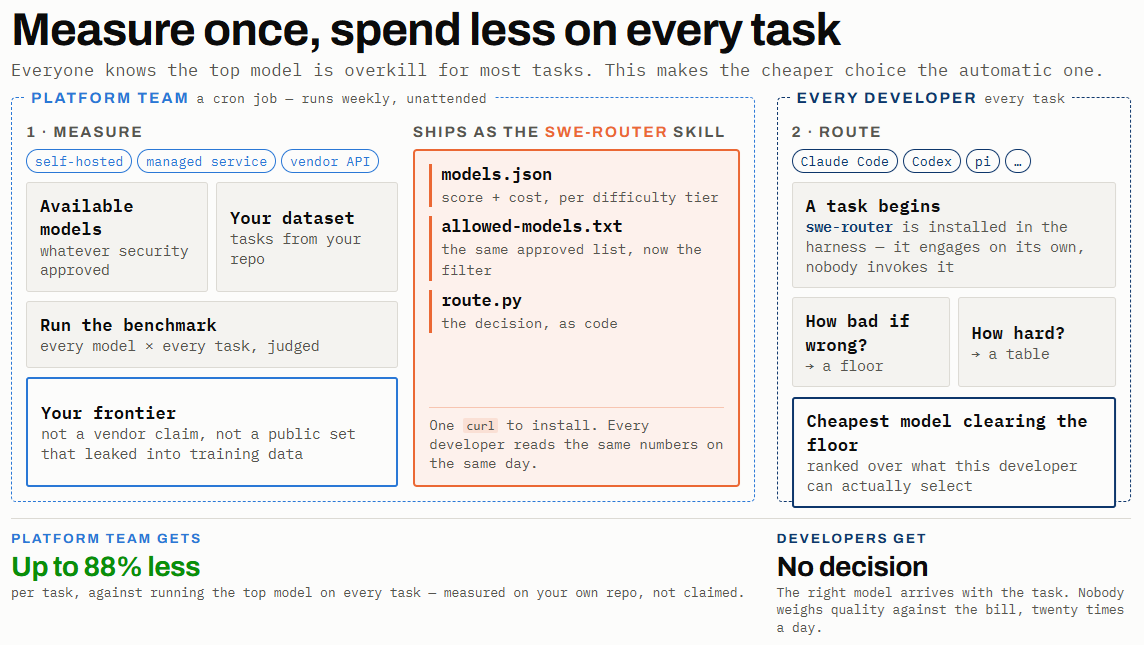
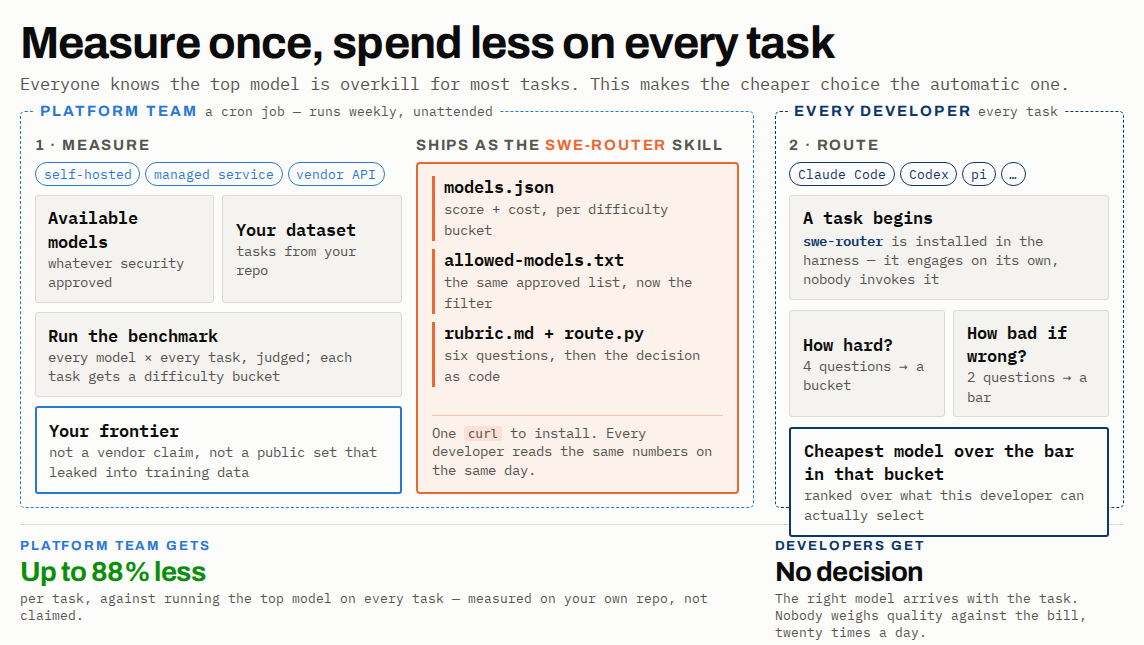
Update the workflow slide and README for the rubric router
The slide, its README screenshot and the ASCII copy still showed the
0.1 flow: a quality floor and a tier table. They now show a difficulty
bucket per benchmark task, rubric.md shipping beside route.py, and the
developer's task answering four questions for a bucket and two for the
bar. The PNG is re-rendered from the HTML at the same 1144x645.

The README's install section says seven files and that an edited
routing-policy.json survives an upgrade, describes how the skill picks a
model, and indexes the new explainers and the evidence behind the rubric.

Changed region(s): [[0.0, 0.0, 0.979, 0.9922]]

diff --git a/docs/slides/swe-router-workflow.html b/docs/slides/swe-router-workflow.html
@@ -218,16 +218,16 @@
           <div class="box"><b>Available models</b><i>whatever security approved</i></div>
           <div class="box"><b>Your dataset</b><i>tasks from your repo</i></div>
         </div>
-        <div class="box"><b>Run the benchmark</b><i>every model × every task, judged</i></div>
+        <div class="box"><b>Run the benchmark</b><i>every model × every task, judged; each task gets a difficulty bucket</i></div>
         <div class="box out"><b>Your frontier</b><i>not a vendor claim, not a public set that leaked into training data</i></div>
       </section>
 
       <section class="col col--spine">
         <div class="head">Ships as the <b>swe-router</b> skill</div>
         <div class="spine">
-          <div class="f"><b>models.json</b><i>score + cost, per difficulty tier</i></div>
+          <div class="f"><b>models.json</b><i>score + cost, per difficulty bucket</i></div>
           <div class="f"><b>allowed-models.txt</b><i>the same approved list, now the filter</i></div>
-          <div class="f"><b>route.py</b><i>the decision, as code</i></div>
+          <div class="f"><b>rubric.md + route.py</b><i>six questions, then the decision as code</i></div>
           <div class="note">One <code>curl</code> to install. Every developer reads the same numbers on the same day.</div>
         </div>
       </section>
@@ -243,10 +243,10 @@
         </div>
         <div class="box"><b>A task begins</b><i><b>swe-router</b> is installed in the harness &mdash; it engages on its own, nobody invokes it</i></div>
         <div class="pair">
-          <div class="box"><b>How bad if wrong?</b><i>&rarr; a floor</i></div>
-          <div class="box"><b>How hard?</b><i>&rarr; a table</i></div>
+          <div class="box"><b>How hard?</b><i>4 questions &rarr; a bucket</i></div>
+          <div class="box"><b>How bad if wrong?</b><i>2 questions &rarr; a bar</i></div>
         </div>
-        <div class="box out"><b>Cheapest model clearing the floor</b><i>ranked over what this developer can actually select</i></div>
+        <div class="box out"><b>Cheapest model over the bar in that bucket</b><i>ranked over what this developer can actually select</i></div>
       </section>
     </div>
   </div>

diff --git a/README.md b/README.md
@@ -65,7 +65,7 @@ On ours, 23 models over 21 tasks: `claude-opus-5` scores highest at **82.83** fo
 
 ## Step 2 — Developers install the skill
 
-Five files copied into a skills directory. The skill imports nothing and needs no build step. Run this from the root of the repository you want it in, and it lands in `.claude/skills/swe-router`:
+Seven files copied into a skills directory. The skill imports nothing and needs no build step. Run this from the root of the repository you want it in, and it lands in `.claude/skills/swe-router`:
 
 ```bash
 curl -sL https://raw.githubusercontent.com/aarora79/agentic-coding-harness-benchmarks/main/vend/swe-router/install.sh | bash
@@ -77,9 +77,9 @@ To install it once for every repository instead, send it to your home directory:
 curl -sL https://raw.githubusercontent.com/aarora79/agentic-coding-harness-benchmarks/main/vend/swe-router/install.sh | bash -s -- --dir ~/.claude/skills
 ```
 
-Re-run either command to upgrade; your edited `allowed-models.txt` is kept.
+Re-run either command to upgrade; your edited `allowed-models.txt` and `routing-policy.json` are kept.
 
-`swe-router` engages on its own before a substantial task. It sets a quality floor from what happens if the change is wrong, classifies how hard the task is, and takes the cheapest model that clears that floor at that tier. **Edit `allowed-models.txt`.** The skill treats every name in it as a model the developer can select, so listing one your team cannot reach costs them the cheaper option.
+`swe-router` engages on its own before a substantial task. Your assistant's model answers six rubric questions about the task: four set its difficulty bucket (easy, moderate, hard or very hard), and two set the quality a model must reach, from what happens if the change is wrong. The skill then takes the cheapest permitted model whose benchmark score on tasks in that bucket clears the bar, skipping any model that failed a benchmark task there. [How it works](docs/swe-router-how-it-works.md). **Edit `allowed-models.txt`.** The skill treats every name in it as a model the developer can select, so listing one your team cannot reach costs them the cheaper option.
 
 Install notes, the file-by-file breakdown and the measured results: **[vend/swe-router/README.md](vend/swe-router/README.md)**.
 
@@ -146,8 +146,11 @@ Where to read more, by topic:
 | [.claude/skills/setup-machine/SKILL.md](.claude/skills/setup-machine/SKILL.md) | **Start here on a new machine.** What `/setup-machine` inspects and installs, why each component is needed, where the vLLM venv lands on a small root disk, and what it deliberately does not do. |
 | [.claude/skills/onboard-benchmark/SKILL.md](.claude/skills/onboard-benchmark/SKILL.md) | **Start here to benchmark your own code.** The `/onboard-benchmark` skill walks the first run on your own infrastructure: confirming one machine reaches both your model endpoint and your code host, picking the harness your gateway's API shape can drive, proving the agent and the judge with a real call, credentials for private and enterprise-hosted repositories, authoring a dataset from your closed issues, and one scored smoke task. |
 | [docs/results-swe3.md](docs/results-swe3.md) / [docs/results-swe2.md](docs/results-swe2.md) | Full benchmark results per skill: task-by-task tables, per-model leaderboard, cost/quality frontier, hardware, and what the data says. |
-| [.claude/skills/swe-router/SKILL.md](.claude/skills/swe-router/SKILL.md) | The `/swe-router` skill: how it sets a quality floor from the consequence of a change being wrong, picks the tier table to read it against, and selects the cheapest model that clears it. Advisory -- it recommends and stops. |
-| [docs/swe-router-judged-inputs.md](docs/swe-router-judged-inputs.md) | What `omp` + `claude-opus-5` judged each of the 21 v2 tasks to need: floor, tier, the reasoning, and how much those moved across three identical runs. |
+| [.claude/skills/swe-router/SKILL.md](.claude/skills/swe-router/SKILL.md) | The `/swe-router` skill: it answers the six questions in `rubric.md` about the task, and `route.py` turns the answers into a difficulty bucket and a required quality, then picks the cheapest permitted model that clears it in that bucket. Advisory -- it recommends and stops. |
+| [docs/swe-router-how-it-works.md](docs/swe-router-how-it-works.md) | How `swe-router` picks a model, in three stages with diagrams: classify the benchmark tasks with the rubric, benchmark the models, route a developer's task. Also as [HTML](docs/swe-router-how-it-works.html). |
+| [docs/swe-router-rubric-scores.md](docs/swe-router-rubric-scores.md) | The rubric scores file behind the skill's columns: what it holds, how it is made, when it changes, and why the skill never reads it. Also as [HTML](docs/swe-router-rubric-scores.html). |
+| [docs/swe-router-rubric-evaluation.md](docs/swe-router-rubric-evaluation.md) / [docs/results-cli-cli-v1.md](docs/results-cli-cli-v1.md) | The evidence for the rubric: replays against the previous skill on v2, and a zero-shot check on a second repository (cli/cli, in Go). |
+| [docs/swe-router-judged-inputs.md](docs/swe-router-judged-inputs.md) | Before the rubric (skill 0.1): what `omp` + `claude-opus-5` judged each of the 21 v2 tasks to need: floor, tier, the reasoning, and how much those moved across three identical runs. |
 | [docs/swe-router-evaluation-judged.md](docs/swe-router-evaluation-judged.md) | Whether routing on those judgments beats running one model on everything: per-task picks joined to the measured runs, with cost and quality deltas. |
 | [docs/vision.md](docs/vision.md) | The north star: a cost-aware harness that routes each task (and each phase) to the right model on the frontier -- frontier / workhorse / budget -- switching automatically. |
 | [benchmarks/README.md](benchmarks/README.md) | The benchmark harness landing page: the three hosting paths, how a run works, and how to reproduce the results above. |

diff --git a/docs/diagram-ascii.md b/docs/diagram-ascii.md
@@ -16,23 +16,24 @@ This makes the cheaper choice the automatic one.
 |                                 +------------------------+ |  | +------------------------------+ |
 | +----------------------------+  | models.json            | |  | | A task begins                | |
 | | Available models           |  |   score + cost, per    | |  | |   swe-router is installed in | |
-| |   whatever security        |  |   tier                 | |  | |   the harness - it engages   | |
+| |   whatever security        |  |   difficulty bucket    | |  | |   the harness - it engages   | |
 | |   approved                 |  |                        | |  | |   on its own, nobody invokes | |
 | +----------------------------+  |   allowed-models.txt   | |  | |   it                         | |
 |                                 |   the approved list,   | |  | +------------------------------+ |
 | +----------------------------+  |   now the filter       | |  |                |                 |
 | | Your dataset               |  |                        | |  |   +------------+------------+    |
-| |   tasks from your repo     |  |   route.py             | |  |   v                         v    |
-| +----------------------------+  |   the decision, as     | |  |   +------------+  +------------+ |
-|               |                 |   code                 | |  |   | How bad if |  | How hard   | |
-|               v                 |                        | |  |   |   wrong?   |  |   is it?   | |
-| +----------------------------+  |   One curl to install. | |  |   |   -> a     |  |   -> a     | |
-| | Run the benchmark          |  |   Every developer      | |  |   |   floor    |  |   table    | |
+| |   tasks from your repo     |  |   rubric.md + route.py | |  |   v                         v    |
+| +----------------------------+  |   six questions, then  | |  |   +------------+  +------------+ |
+|               |                 |   the decision as code | |  |   | How hard?  |  | How bad if | |
+|               v                 |                        | |  |   | 4 questions|  |   wrong?   | |
+| +----------------------------+  |   One curl to install. | |  |   | -> a bucket|  | 2 questions| |
+| | Run the benchmark          |  |   Every developer      | |  |   |            |  | -> a bar   | |
 | |   every model x every      |  |   reads the same       | |  |   +------------+  +------------+ |
-| |   task, judged             |  |   numbers on the same  | |  |   +------------+------------+    |
-| +----------------------------+  |   day.                 | |  |                v                 |
-|               |                 +------------------------+ |  | +==============================+ |
-|               v                                            |  | | CHEAPEST MODEL OVER THE FLOOR| |
+| |   task, judged; each task  |  |   numbers on the same  | |  |   +------------+------------+    |
+| |   gets a difficulty bucket |  |   day.                 | |  |                v                 |
+| +----------------------------+  +------------------------+ |  | +==============================+ |
+|               |                                            |  | | CHEAPEST MODEL OVER THE BAR  | |
+|               v                                            |  | | IN THAT BUCKET               | |
 | +============================+                             |  | |   ranked over what this      | |
 | | YOUR FRONTIER              |                             |  | |   developer can actually     | |
 | |   not a vendor claim, not  |                             |  | |   select                     | |
